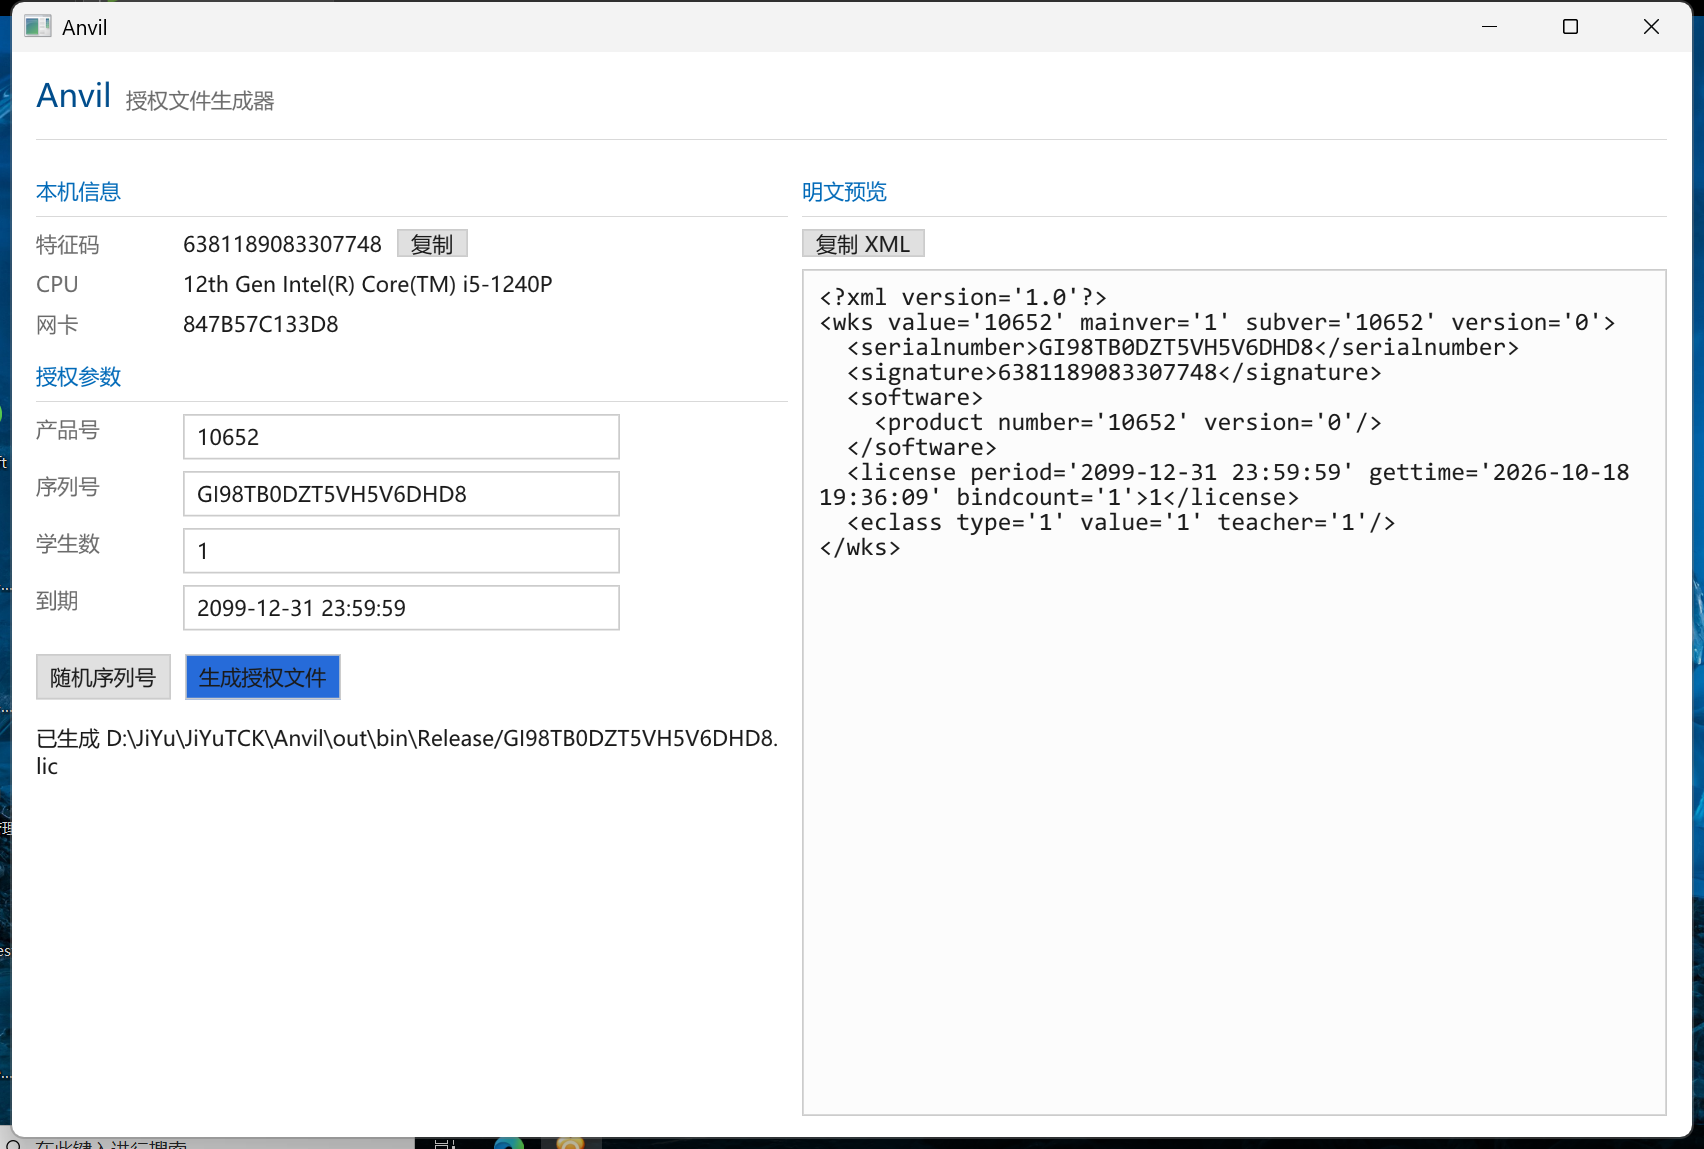
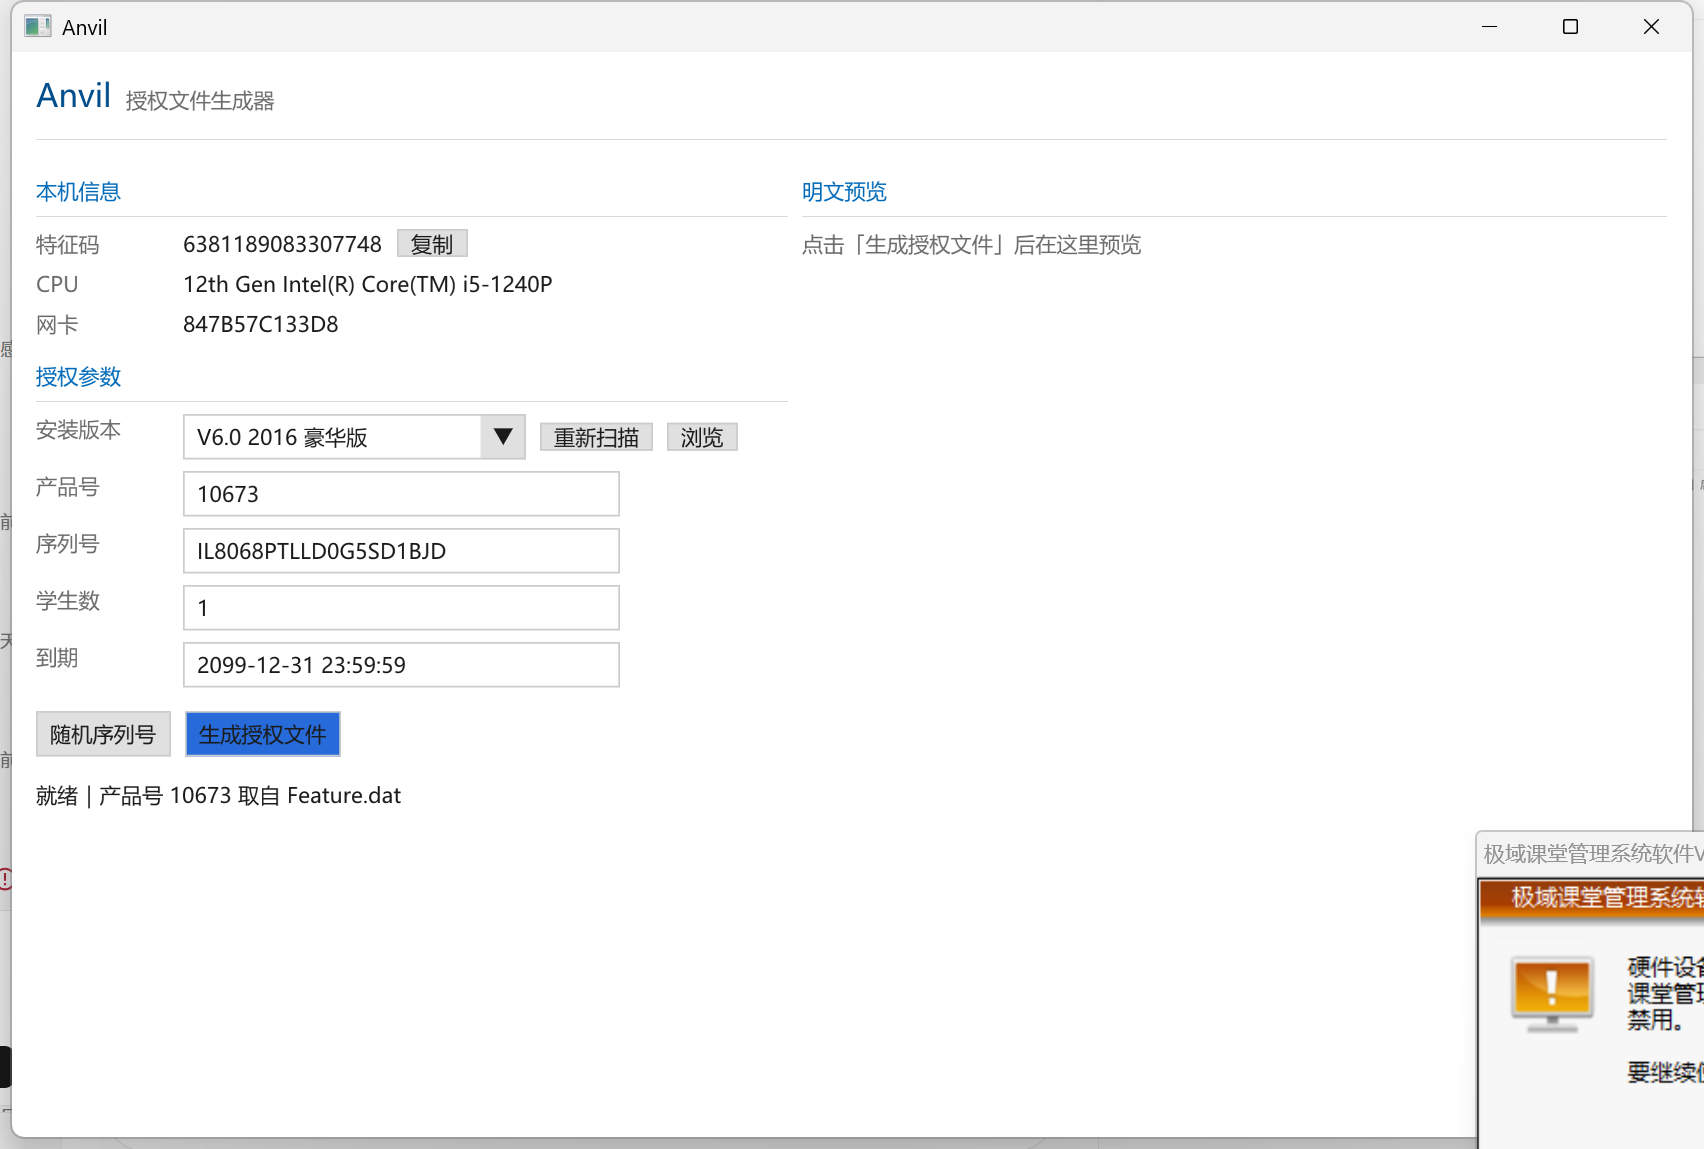
ui: 加安装版本下拉框，不再手填产品号
- ui/version_picker: 扫描已装版本（复用 FeatureData::Candidates），下拉框切换即改产品号
- 标签去掉公共前缀「极域课堂管理系统软件」和目录名，只显示 V6.0 2016 豪华版 这类短名
- 重新扫描 / 浏览（ChooseOpenFileName 直接挑 Feature.dat，兼容默认扫描不到的版本）
- 产品号框保留可编辑，切换版本会覆盖它并在状态栏提示来源

diff --git a/src/ui/version_picker.cpp b/src/ui/version_picker.cpp
@@ -1,0 +1,155 @@
+#include "ui/version_picker.h"
+
+#include "core/feature_dat.h"
+
+#include <imgui.h>
+
+#include <windows.h>
+#include <commdlg.h>
+
+namespace anvil::ui {
+namespace {
+
+std::string WideToUtf8(const std::wstring& text) {
+    if (text.empty()) {
+        return {};
+    }
+    const int size = WideCharToMultiByte(CP_UTF8, 0, text.data(), static_cast<int>(text.size()),
+                                         nullptr, 0, nullptr, nullptr);
+    std::string out(static_cast<std::size_t>(size), ' ');
+    WideCharToMultiByte(CP_UTF8, 0, text.data(), static_cast<int>(text.size()),
+                        out.data(), size, nullptr, nullptr);
+    return out;
+}
+
+// 手动指定 Feature.dat：默认扫描找不到的版本（比如只留了备份的）也能用
+std::string BrowseFeatureFile() {
+    wchar_t buffer[MAX_PATH * 2] = {};
+    OPENFILENAMEW dialog = {};
+    dialog.lStructSize = sizeof(dialog);
+    dialog.lpstrFilter = L"Feature.dat\0Feature.dat\0所有文件\0*.*\0";
+    dialog.lpstrFile = buffer;
+    dialog.nMaxFile = MAX_PATH * 2;
+    dialog.lpstrTitle = L"选择 Feature.dat";
+    dialog.Flags = OFN_FILEMUSTEXIST | OFN_PATHMUSTEXIST | OFN_NOCHANGEDIR;
+    if (GetOpenFileNameW(&dialog) == FALSE) {
+        return {};
+    }
+    return WideToUtf8(buffer);
+}
+
+// ...\极域课堂管理系统软件V6.0 2016 豪华版\Feature.dat -> V6.0 2016 豪华版
+std::string DirectoryLabel(const std::string& feature_path) {
+    std::string path = feature_path;
+    const std::size_t file_slash = path.find_last_of("\\/");
+    if (file_slash != std::string::npos) {
+        path.resize(file_slash); // 去掉 Feature.dat
+    }
+    const std::size_t dir_slash = path.find_last_of("\\/");
+    std::string label = dir_slash == std::string::npos ? path : path.substr(dir_slash + 1);
+
+    // 每个版本都带这个前缀，下拉框里没必要重复显示
+    const std::string prefix = "\xE6\x9E\x81\xE5\x9F\x9F\xE8\xAF\xBE\xE5\xA0\x82"; // "极域课堂"
+    const std::string full_prefix = prefix + "\xE7\xAE\xA1\xE7\x90\x86\xE7\xB3\xBB\xE7\xBB\x9F\xE8\xBD\xAF\xE4\xBB\xB6";
+    if (label.rfind(full_prefix, 0) == 0) {
+        label.erase(0, full_prefix.size());
+    }
+    return label;
+}
+
+} // namespace
+
+void VersionPicker::Scan() {
+    versions_.clear();
+    selected_ = 0;
+
+    for (const std::string& path : core::FeatureData::Candidates()) {
+        core::FeatureData data;
+        if (!data.Load(path)) {
+            continue;
+        }
+        InstalledVersion version;
+        version.directory = path;
+        version.label = DirectoryLabel(path);
+        version.products = data.ProductIds();
+        version.trail_days = data.TrailDays();
+        if (version.products.empty()) {
+            continue;
+        }
+        versions_.push_back(version);
+    }
+}
+
+int VersionPicker::AddCustom(const std::string& path) {
+    core::FeatureData data;
+    if (!data.Load(path)) {
+        return 0;
+    }
+    InstalledVersion version;
+    version.directory = path;
+    version.label = DirectoryLabel(path);
+    version.products = data.ProductIds();
+    version.trail_days = data.TrailDays();
+    if (version.products.empty()) {
+        return 0;
+    }
+    for (const InstalledVersion& existing : versions_) {
+        if (existing.directory == path) {
+            return version.products.front();
+        }
+    }
+    versions_.push_back(version);
+    selected_ = static_cast<int>(versions_.size()) - 1;
+    return version.products.front();
+}
+
+int VersionPicker::InitialProduct() const {
+    return versions_.empty() ? 0 : versions_.front().products.front();
+}
+
+int VersionPicker::SelectedProduct() const {
+    if (selected_ < 0 || selected_ >= static_cast<int>(versions_.size())) {
+        return 0;
+    }
+    const InstalledVersion& version = versions_[static_cast<std::size_t>(selected_)];
+    return version.products.empty() ? 0 : version.products.front();
+}
+
+int VersionPicker::DrawCombo(float scale) {
+    ImGui::TextDisabled("安装版本");
+    ImGui::SameLine(84.0f * scale);
+
+    int picked = 0;
+    if (versions_.empty()) {
+        ImGui::TextDisabled("未检测到已安装的 Feature.dat");
+    } else {
+        ImGui::SetNextItemWidth(196.0f * scale);
+        if (ImGui::BeginCombo("##version", versions_[static_cast<std::size_t>(selected_)].label.c_str())) {
+            for (int i = 0; i < static_cast<int>(versions_.size()); ++i) {
+                const InstalledVersion& version = versions_[static_cast<std::size_t>(i)];
+                std::string text = version.label + "  (产品号 " + std::to_string(version.products.front()) + ")";
+                if (ImGui::Selectable(text.c_str(), i == selected_)) {
+                    selected_ = i;
+                    picked = version.products.front();
+                }
+            }
+            ImGui::EndCombo();
+        }
+    }
+
+    ImGui::SameLine();
+    if (ImGui::SmallButton("重新扫描")) {
+        Scan();
+        picked = SelectedProduct();
+    }
+    ImGui::SameLine();
+    if (ImGui::SmallButton("浏览")) {
+        const std::string path = BrowseFeatureFile();
+        if (!path.empty()) {
+            picked = AddCustom(path);
+        }
+    }
+    return picked;
+}
+
+} // namespace anvil::ui

diff --git a/src/ui/app.cpp b/src/ui/app.cpp
@@ -6,6 +6,7 @@
 #include "core/serial.h"
 #include "ui/gfx.h"
 #include "ui/theme.h"
+#include "ui/version_picker.h"
 #include "ui/xml_pretty.h"
 
 #include <imgui.h>
@@ -48,15 +49,14 @@ public:
             return false;
         }
         fonts_ = theme::LoadFonts(gfx_.Scale());
-        // 产品号随安装版本变化，优先从 Feature.dat 自动取，取不到才用默认值
-        core::FeatureData feature;
-        if (feature.Load(core::FeatureData::DefaultPath()) && !feature.ProductIds().empty()) {
-            std::snprintf(product_, sizeof(product_), "%d", feature.ProductIds().front());
-            from_feature_ = true;
+        // 产品号随安装版本变化：扫描所有已装版本，默认用第一个
+        versions_.Scan();
+        if (const int first = versions_.InitialProduct(); first > 0) {
+            std::snprintf(product_, sizeof(product_), "%d", first);
         }
         RefreshMachine();
         std::snprintf(serial_, sizeof(serial_), "%s", core::Serial::Random().c_str());
-        status_ = from_feature_ ? std::string("就绪｜产品号 ") + product_ + " 取自 Feature.dat" : "就绪";
+        status_ = versions_.empty() ? "就绪" : std::string("就绪｜产品号 ") + product_ + " 取自 Feature.dat";
         return true;
     }
 
@@ -143,6 +143,11 @@ private:
     void DrawParameters() {
         Section("授权参数");
         const float input_width = 250.0f * gfx_.Scale();
+
+        if (const int picked = versions_.DrawCombo(gfx_.Scale()); picked > 0) {
+            std::snprintf(product_, sizeof(product_), "%d", picked);
+            status_ = "已切换版本，产品号 " + std::to_string(picked);
+        }
 
         ImGui::TextDisabled("产品号");
         ImGui::SameLine(kLabelOffset * gfx_.Scale());
@@ -265,7 +270,7 @@ private:
 
     Gfx gfx_;
     theme::Fonts fonts_;
-    bool from_feature_ = false;
+    VersionPicker versions_;
     int frames_ = 0;
     std::string cpu_;
     std::string macs_;

diff --git a/src/ui/version_picker.h b/src/ui/version_picker.h
@@ -1,0 +1,40 @@
+#pragma once
+
+#include <string>
+#include <vector>
+
+namespace anvil::ui {
+
+// 一个已安装的极域版本：目录里的 Feature.dat 决定它的产品号
+struct InstalledVersion {
+    std::string directory;   // 安装目录（UTF-8）
+    std::string label;       // 下拉框显示名，取目录名
+    std::vector<int> products;
+    int trail_days = 0;
+};
+
+// 版本选择：扫描所有已装版本，让用户在下拉框里挑一个
+class VersionPicker {
+public:
+    void Scan();
+
+    bool empty() const { return versions_.empty(); }
+
+    // 画下拉框；返回本帧新选中的产品号（没变化或没选中返回 0）
+    int DrawCombo(float scale);
+
+    // 手动加入一个 Feature.dat（浏览选择）；成功返回它的产品号
+    int AddCustom(const std::string& path);
+
+    // 初始化时用：第一个版本的主产品号
+    int InitialProduct() const;
+
+    // 当前选中版本的产品号（无则为 0）
+    int SelectedProduct() const;
+
+private:
+    std::vector<InstalledVersion> versions_;
+    int selected_ = 0;
+};
+
+} // namespace anvil::ui
